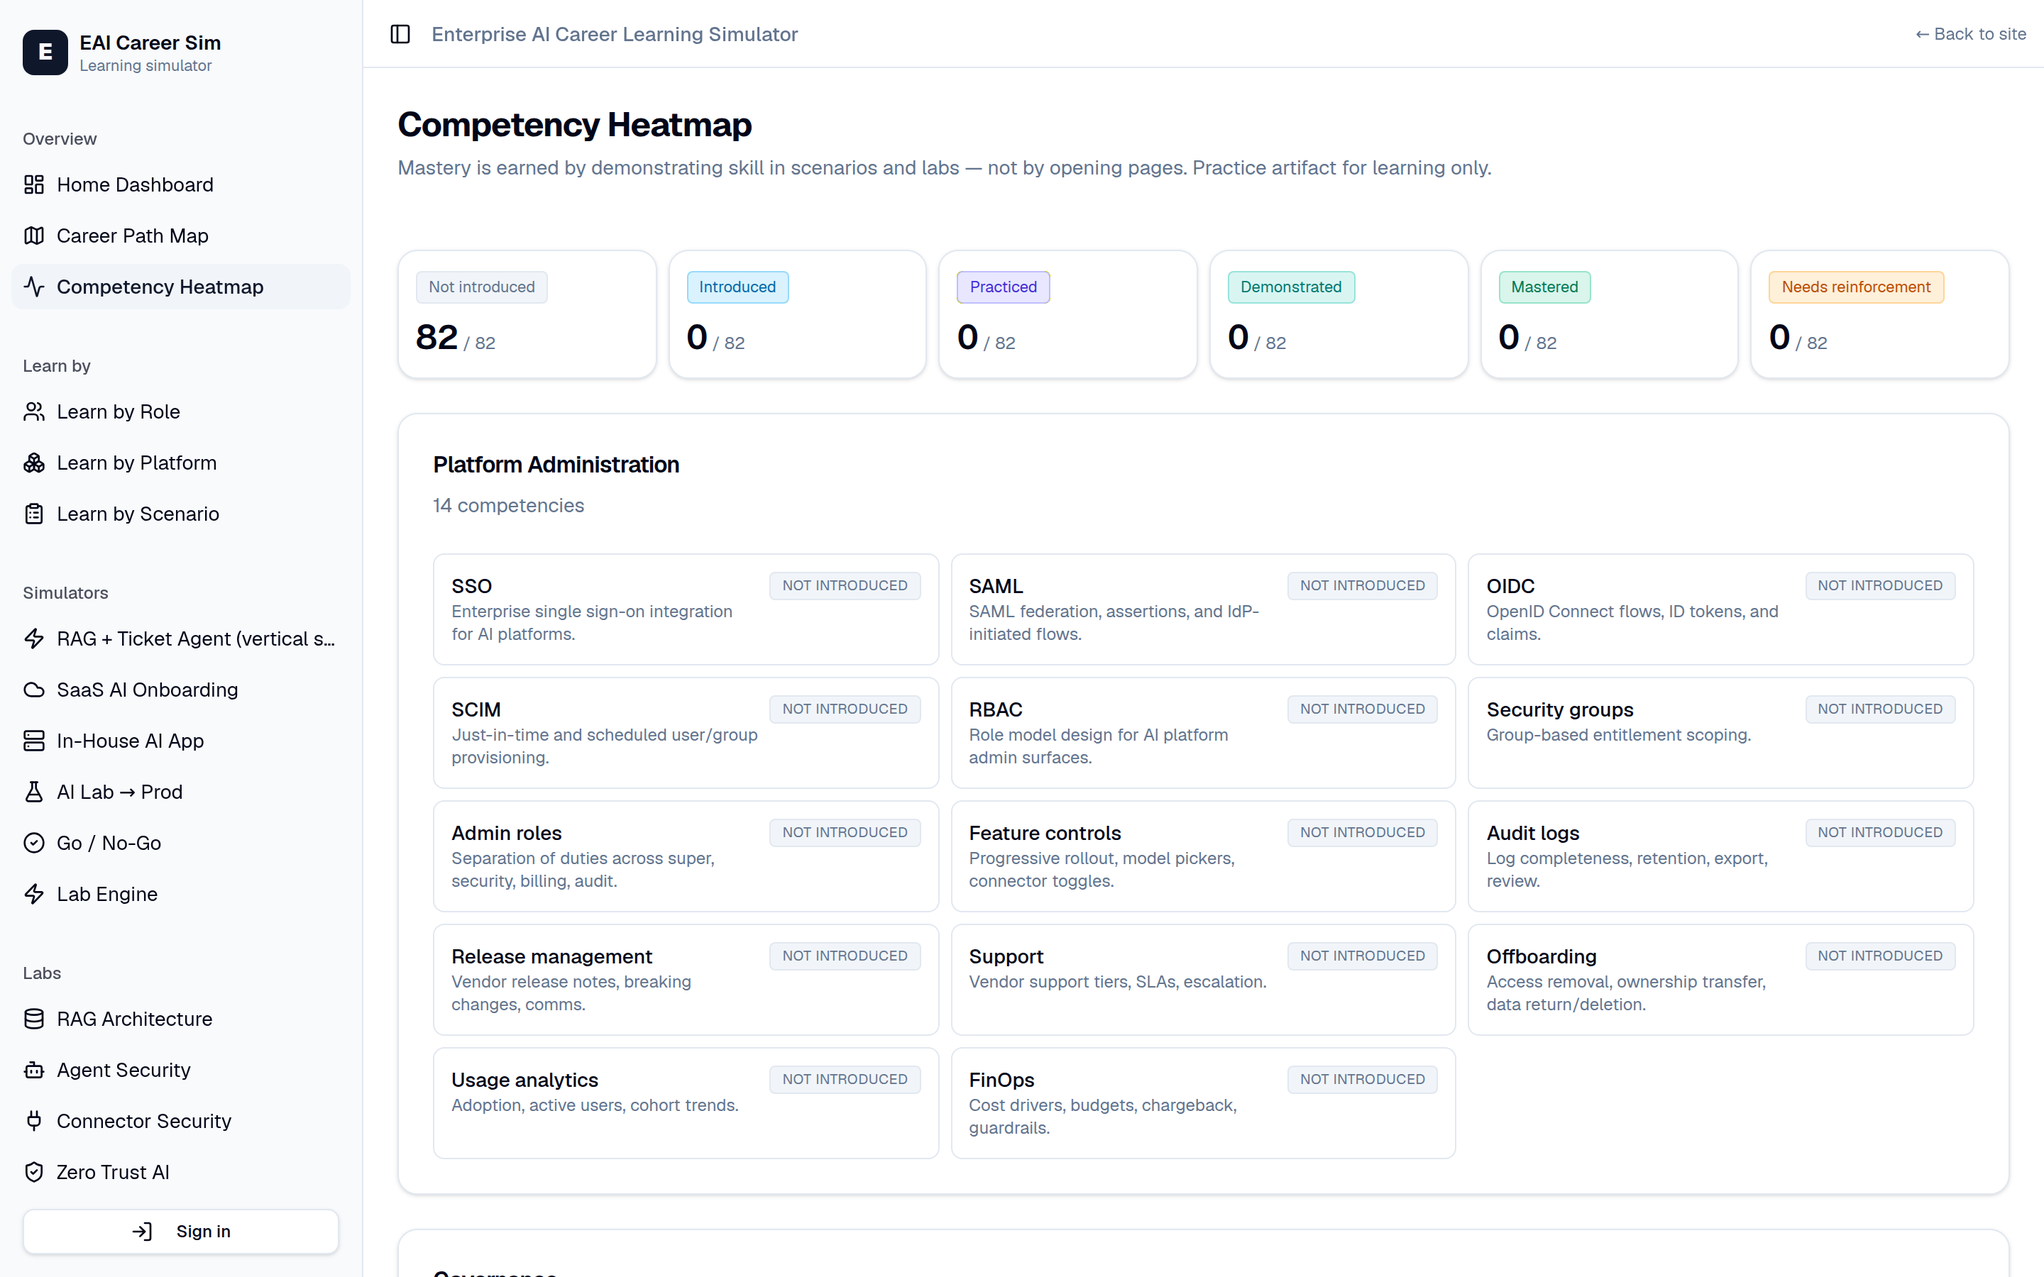
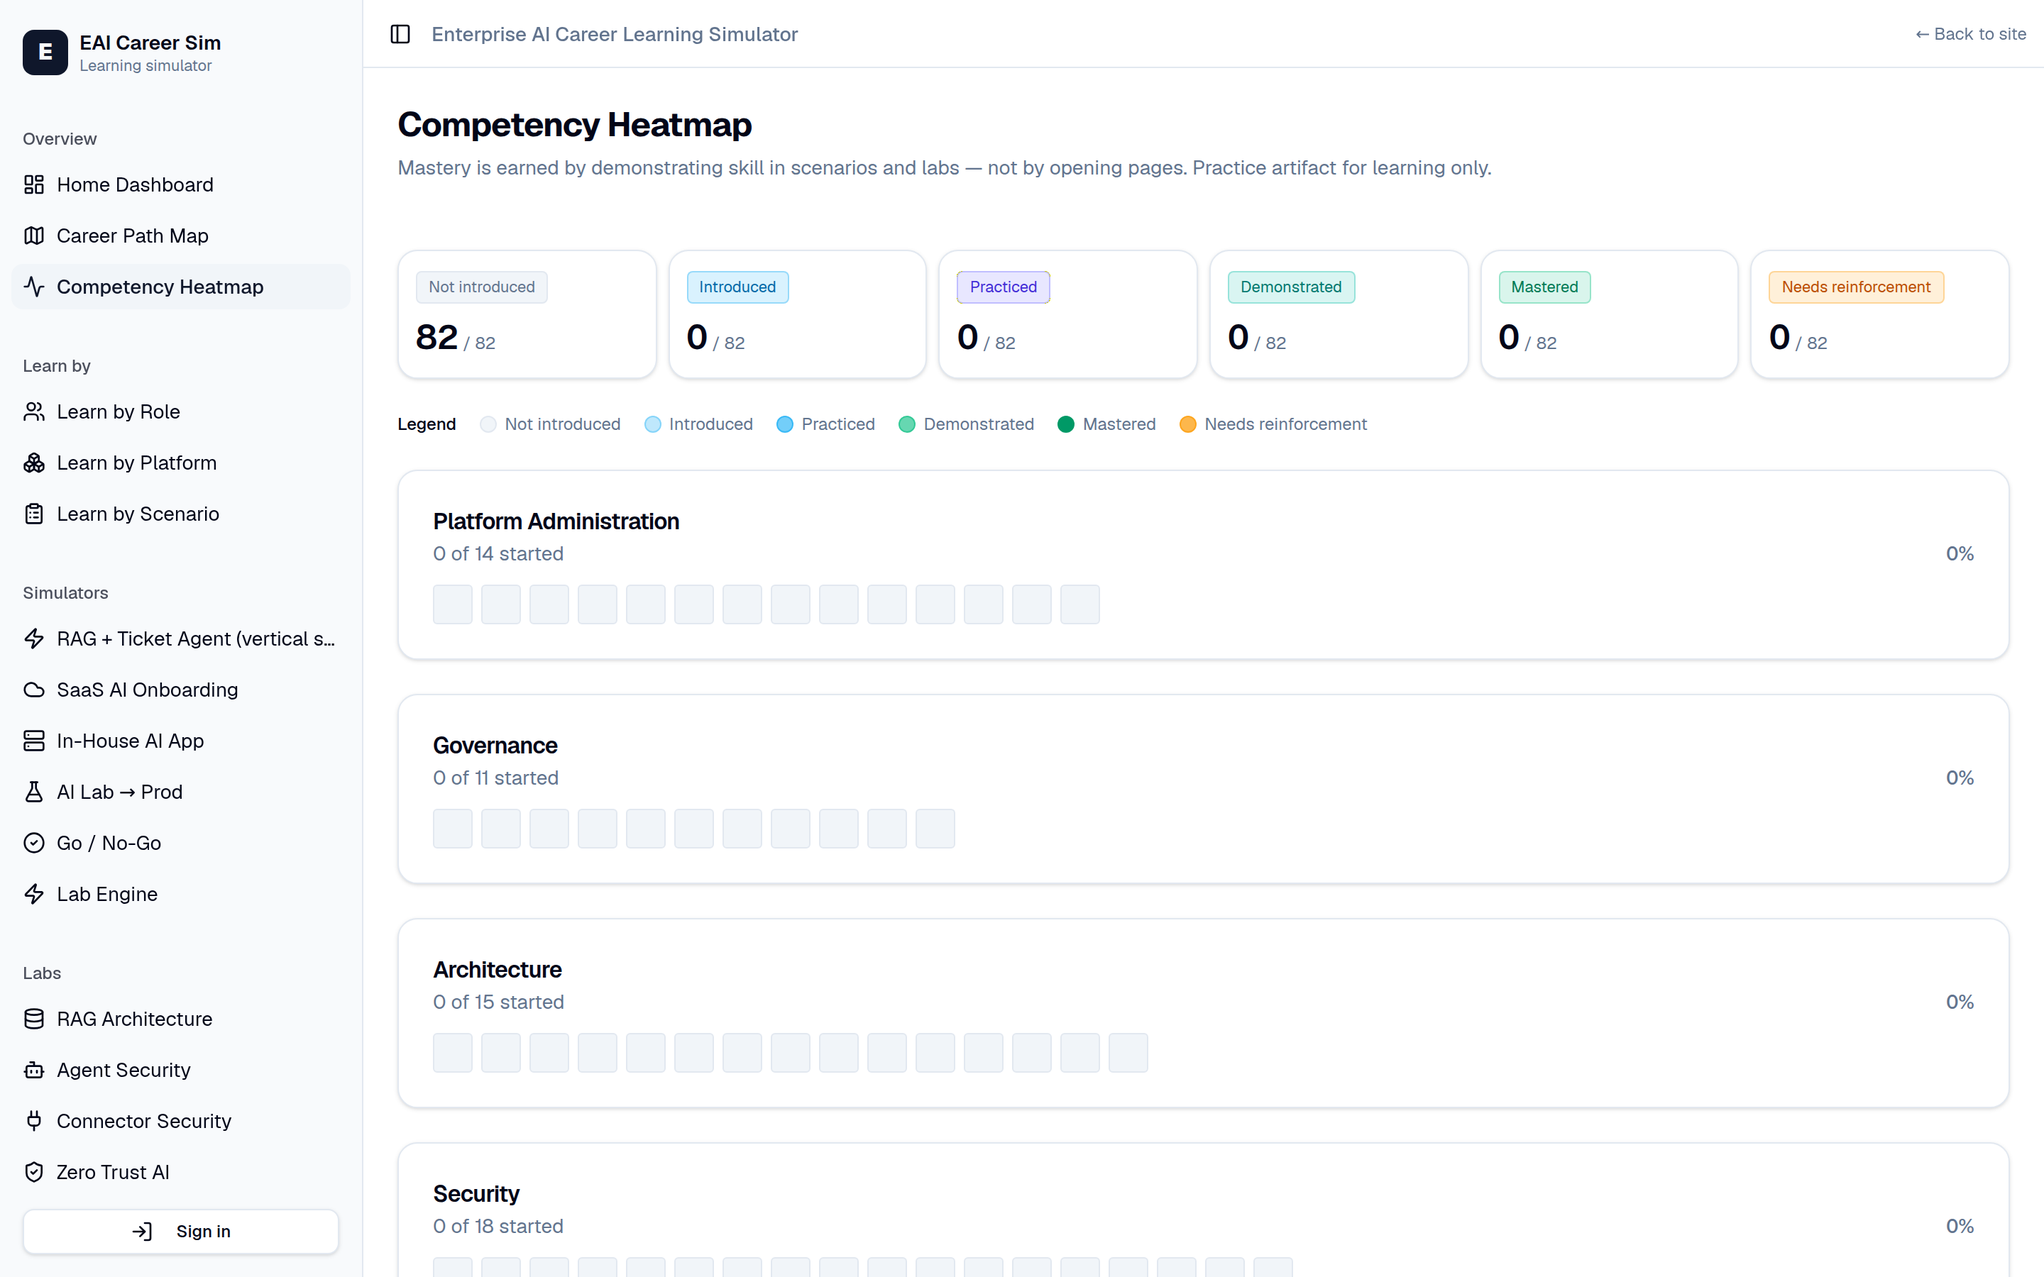
Rebuild the competency heatmap, sign-in, and portal chrome
The competency page was called a heatmap but had no heat: 82 identical
white cards each with a grey pill, no colour encoding, and 9,184px tall
on mobile. It is now an actual heat grid — dense cells on a single ramp
from untouched to mastered, with reinforcement breaking the ramp in amber
so a decayed skill stands out instead of reading as mid-progress. Each
category shows how far through it you are. The page went from 9,184px to
1,493px, so the whole picture is readable at a glance, which was the
entire point of the feature.

Sign-in was an unbranded card floating at the top of an empty white page,
with a title naming a different product. It is now a split screen: form
and wordmark on the left, a dark brand panel on the right carrying a line
from the simulation and the numbers behind it. It also now says plainly
that no account is needed, since the portal is open.

Portal chrome: the sidebar left roughly 600px of white void below itself
on any page that scrolled past the viewport; content padding stepped down
on mobile, where 24px was eating usable width.

Disabled buttons rendered as a faded near-black primary — a solid mid-grey
fill that reads as an active secondary button rather than a disabled one.
They now use the muted surface.

Verified: build, tsc, 21 tests, lint clean, 10/10 UI checks passing with
zero console errors, and 82 heat cells confirmed rendering.

Claude-Session: https://claude.ai/code/session_017nELc5DecWVwRruxi9ZJTT

diff --git a/src/routes/auth.tsx b/src/routes/auth.tsx
@@ -1,9 +1,10 @@
-import { createFileRoute, useNavigate, useSearch } from "@tanstack/react-router";
+import { Link, createFileRoute, useNavigate, useSearch } from "@tanstack/react-router";
 import { useEffect, useState } from "react";
 import { z } from "zod";
 import { supabase } from "@/integrations/supabase/client";
 import { lovable } from "@/integrations/lovable/index";
 import { useSession } from "@/lib/session";
+import { Wordmark } from "@/components/site/Logo";
 import { Button } from "@/components/ui/button";
 import { Card, CardContent, CardDescription, CardHeader, CardTitle } from "@/components/ui/card";
 import { Input } from "@/components/ui/input";
@@ -17,7 +18,7 @@ export const Route = createFileRoute("/auth")({
   validateSearch: (s) => searchSchema.parse(s),
   head: () => ({
     meta: [
-      { title: "Sign in — AI Assurance & Learning Platform" },
+      { title: "Sign in — EAI Career Sim" },
       {
         name: "description",
         content: "Sign in to persist scenario runs, evidence, and review-board transcripts.",
@@ -85,87 +86,139 @@ function AuthPage() {
   }
 
   return (
-    <div className="mx-auto grid min-h-[70vh] max-w-md place-items-center">
-      <Card className="w-full">
-        <CardHeader>
-          <CardTitle>Sign in to EAI Career Sim</CardTitle>
-          <CardDescription>
-            Runs, evidence, decisions and audit events persist to your account. Practice only — do
-            not enter real client data or production secrets.
-          </CardDescription>
-        </CardHeader>
-        <CardContent className="space-y-4">
-          <Button variant="outline" className="w-full" onClick={google}>
-            Continue with Google
-          </Button>
-          <div className="relative">
-            <div className="absolute inset-0 flex items-center">
-              <span className="w-full border-t" />
-            </div>
-            <div className="relative flex justify-center text-xs uppercase">
-              <span className="bg-background px-2 text-muted-foreground">or</span>
-            </div>
-          </div>
-          <Tabs defaultValue="signin">
-            <TabsList className="grid w-full grid-cols-2">
-              <TabsTrigger value="signin">Sign in</TabsTrigger>
-              <TabsTrigger value="signup">Create account</TabsTrigger>
-            </TabsList>
-            <TabsContent value="signin" className="space-y-3">
-              <div className="space-y-1">
-                <Label>Email</Label>
-                <Input type="email" value={email} onChange={(e) => setEmail(e.target.value)} />
-              </div>
-              <div className="space-y-1">
-                <Label>Password</Label>
-                <Input
-                  type="password"
-                  value={password}
-                  onChange={(e) => setPassword(e.target.value)}
-                />
-              </div>
-              <Button className="w-full" onClick={signIn} disabled={busy || !email || !password}>
-                Sign in
+    // Split screen: the form was previously an unbranded card floating at the
+    // top of an empty white page, with no logo and no indication of what you
+    // were signing in to.
+    <div className="grid min-h-svh lg:grid-cols-2">
+      <div className="flex flex-col justify-center px-6 py-12 sm:px-12">
+        <Link to="/" className="mb-8 inline-flex items-center gap-2 self-start">
+          <Wordmark />
+        </Link>
+        <div className="w-full max-w-md">
+          <Card className="w-full shadow-card">
+            <CardHeader>
+              <CardTitle>Sign in to EAI Career Sim</CardTitle>
+              <CardDescription>
+                Runs, evidence, decisions and audit events persist to your account. Practice only —
+                do not enter real client data or production secrets.
+              </CardDescription>
+            </CardHeader>
+            <CardContent className="space-y-4">
+              <Button variant="outline" className="w-full" onClick={google}>
+                Continue with Google
               </Button>
-            </TabsContent>
-            <TabsContent value="signup" className="space-y-3">
-              <div className="space-y-1">
-                <Label>Display name</Label>
-                <Input
-                  value={displayName}
-                  onChange={(e) => setDisplayName(e.target.value)}
-                  placeholder="Optional"
-                />
+              <div className="relative">
+                <div className="absolute inset-0 flex items-center">
+                  <span className="w-full border-t" />
+                </div>
+                <div className="relative flex justify-center text-xs uppercase">
+                  <span className="bg-background px-2 text-muted-foreground">or</span>
+                </div>
               </div>
-              <div className="space-y-1">
-                <Label>Email</Label>
-                <Input type="email" value={email} onChange={(e) => setEmail(e.target.value)} />
+              <Tabs defaultValue="signin">
+                <TabsList className="grid w-full grid-cols-2">
+                  <TabsTrigger value="signin">Sign in</TabsTrigger>
+                  <TabsTrigger value="signup">Create account</TabsTrigger>
+                </TabsList>
+                <TabsContent value="signin" className="space-y-3">
+                  <div className="space-y-1">
+                    <Label>Email</Label>
+                    <Input type="email" value={email} onChange={(e) => setEmail(e.target.value)} />
+                  </div>
+                  <div className="space-y-1">
+                    <Label>Password</Label>
+                    <Input
+                      type="password"
+                      value={password}
+                      onChange={(e) => setPassword(e.target.value)}
+                    />
+                  </div>
+                  <Button
+                    className="w-full"
+                    onClick={signIn}
+                    disabled={busy || !email || !password}
+                  >
+                    Sign in
+                  </Button>
+                </TabsContent>
+                <TabsContent value="signup" className="space-y-3">
+                  <div className="space-y-1">
+                    <Label>Display name</Label>
+                    <Input
+                      value={displayName}
+                      onChange={(e) => setDisplayName(e.target.value)}
+                      placeholder="Optional"
+                    />
+                  </div>
+                  <div className="space-y-1">
+                    <Label>Email</Label>
+                    <Input type="email" value={email} onChange={(e) => setEmail(e.target.value)} />
+                  </div>
+                  <div className="space-y-1">
+                    <Label>Password</Label>
+                    <Input
+                      type="password"
+                      value={password}
+                      onChange={(e) => setPassword(e.target.value)}
+                      minLength={8}
+                    />
+                  </div>
+                  <Button
+                    className="w-full"
+                    onClick={signUp}
+                    disabled={busy || !email || password.length < 8}
+                  >
+                    Create account
+                  </Button>
+                </TabsContent>
+              </Tabs>
+              {err && (
+                <Alert>
+                  <AlertDescription>{err}</AlertDescription>
+                </Alert>
+              )}
+            </CardContent>
+          </Card>
+          <p className="mt-6 text-sm text-muted-foreground">
+            You do not need an account to learn.{" "}
+            <Link to="/app" className="font-medium text-brand hover:underline">
+              Continue without signing in
+            </Link>
+            .
+          </p>
+        </div>
+      </div>
+
+      <aside className="surface-dark relative hidden overflow-hidden lg:block">
+        <div className="surface-dark-grid absolute inset-0" aria-hidden />
+        <div className="brand-radial absolute inset-0" aria-hidden />
+        <div className="relative flex h-full flex-col justify-center px-12 py-16">
+          <blockquote className="max-w-md">
+            <p className="text-2xl leading-snug font-medium text-balance text-white">
+              “Source trust is not content trust. Retrieved text is untrusted input.”
+            </p>
+            <footer className="mt-4 text-sm text-white/55">
+              From the RAG and ticket-agent simulation — one of the lessons the engine will make you
+              learn the hard way.
+            </footer>
+          </blockquote>
+          <dl className="mt-12 grid grid-cols-3 gap-6 border-t border-white/10 pt-8">
+            {[
+              ["16", "graded stages"],
+              ["8", "rubric dimensions"],
+              ["82", "competencies tracked"],
+            ].map(([v, l]) => (
+              <div key={l}>
+                <dt className="sr-only">{l}</dt>
+                <dd>
+                  <div className="text-2xl font-semibold tabular-nums text-white">{v}</div>
+                  <div className="mt-1 text-xs text-white/50">{l}</div>
+                </dd>
               </div>
-              <div className="space-y-1">
-                <Label>Password</Label>
-                <Input
-                  type="password"
-                  value={password}
-                  onChange={(e) => setPassword(e.target.value)}
-                  minLength={8}
-                />
-              </div>
-              <Button
-                className="w-full"
-                onClick={signUp}
-                disabled={busy || !email || password.length < 8}
-              >
-                Create account
-              </Button>
-            </TabsContent>
-          </Tabs>
-          {err && (
-            <Alert>
-              <AlertDescription>{err}</AlertDescription>
-            </Alert>
-          )}
-        </CardContent>
-      </Card>
+            ))}
+          </dl>
+        </div>
+      </aside>
     </div>
   );
 }

diff --git a/src/routes/app.competencies.tsx b/src/routes/app.competencies.tsx
@@ -6,6 +6,20 @@ import { useProgress } from "@/lib/progress";
 import { STATUS_COLOR, STATUS_LABEL, emptyRecord } from "@/lib/competency";
 import type { CompetencyStatus } from "@/content/types";
 
+/**
+ * Cell colours for the heat grid — a single ramp from "untouched" to
+ * "mastered", with reinforcement deliberately breaking the ramp in amber so a
+ * decayed skill stands out rather than reading as mid-progress.
+ */
+const HEAT: Record<CompetencyStatus, string> = {
+  not_introduced: "border-border bg-muted",
+  introduced: "border-sky-500/30 bg-sky-500/25",
+  practiced: "border-sky-500/50 bg-sky-500/55",
+  demonstrated: "border-emerald-500/50 bg-emerald-500/60",
+  mastered: "border-emerald-600/60 bg-emerald-600",
+  needs_reinforcement: "border-amber-500/60 bg-amber-500/70",
+};
+
 export const Route = createFileRoute("/app/competencies")({
   head: () => ({
     meta: [
@@ -59,39 +73,57 @@ function CompetenciesPage() {
         ))}
       </div>
 
+      {/* An actual heat grid. This page is called a heatmap but rendered 82
+          identical white cards with a grey pill — no colour encoding at all,
+          and 9,000px tall on mobile. Dense cells make the whole picture
+          readable at a glance, which is the entire point. */}
+      <div className="flex flex-wrap items-center gap-x-4 gap-y-2 text-xs text-muted-foreground">
+        <span className="font-medium text-foreground">Legend</span>
+        {(Object.keys(counts) as CompetencyStatus[]).map((s) => (
+          <span key={s} className="inline-flex items-center gap-1.5">
+            <span className={`size-3 rounded-sm border ${HEAT[s]}`} />
+            {STATUS_LABEL[s]}
+          </span>
+        ))}
+      </div>
+
       {competencyCategories.map((cat) => {
         const items = competencies.filter((c) => c.category === cat.id);
+        const reached = items.filter(
+          (c) => (p.competencies[c.id]?.status ?? "not_introduced") !== "not_introduced",
+        ).length;
         return (
           <Card key={cat.id}>
-            <CardHeader>
-              <CardTitle className="text-base">{cat.label}</CardTitle>
-              <CardDescription>{items.length} competencies</CardDescription>
+            <CardHeader className="pb-3">
+              <div className="flex items-end justify-between gap-4">
+                <div>
+                  <CardTitle className="text-base">{cat.label}</CardTitle>
+                  <CardDescription>
+                    {reached} of {items.length} started
+                  </CardDescription>
+                </div>
+                <div className="text-sm font-medium tabular-nums text-muted-foreground">
+                  {Math.round((reached / items.length) * 100)}%
+                </div>
+              </div>
             </CardHeader>
             <CardContent>
-              <ul className="grid gap-2 sm:grid-cols-2 lg:grid-cols-3">
+              <ul className="grid grid-cols-[repeat(auto-fill,1.75rem)] gap-1.5">
                 {items.map((comp) => {
                   const rec = p.competencies[comp.id] ?? emptyRecord();
                   return (
-                    <li
-                      key={comp.id}
-                      className="flex items-start justify-between gap-2 rounded-md border p-3 text-sm"
-                    >
-                      <div>
-                        <div className="font-medium">{comp.name}</div>
-                        <div className="text-xs text-muted-foreground leading-snug">
-                          {comp.description}
-                        </div>
-                      </div>
+                    <li key={comp.id}>
                       <span
-                        className={`shrink-0 rounded border px-2 py-0.5 text-[10px] uppercase tracking-wide ${STATUS_COLOR[rec.status]}`}
-                        title={
+                        tabIndex={0}
+                        role="img"
+                        aria-label={`${comp.name}: ${STATUS_LABEL[rec.status]}`}
+                        className={`block size-7 rounded-[3px] border transition-transform hover:scale-110 focus:scale-110 focus:outline-none focus-visible:ring-2 focus-visible:ring-ring ${HEAT[rec.status]}`}
+                        title={`${comp.name} — ${STATUS_LABEL[rec.status]}\n${comp.description}${
                           rec.lastPracticedTs
-                            ? `Last practiced ${new Date(rec.lastPracticedTs).toLocaleDateString()}`
-                            : "Not yet practiced"
-                        }
-                      >
-                        {STATUS_LABEL[rec.status]}
-                      </span>
+                            ? `\nLast practised ${new Date(rec.lastPracticedTs).toLocaleDateString()}`
+                            : ""
+                        }`}
+                      />
                     </li>
                   );
                 })}

diff --git a/src/components/ui/button.tsx b/src/components/ui/button.tsx
@@ -5,7 +5,7 @@ import { cva, type VariantProps } from "class-variance-authority";
 import { cn } from "@/lib/utils";
 
 const buttonVariants = cva(
-  "inline-flex items-center justify-center gap-2 whitespace-nowrap rounded-md text-sm font-medium cursor-pointer transition-colors focus-visible:outline-none focus-visible:ring-1 focus-visible:ring-ring disabled:pointer-events-none disabled:opacity-50 disabled:cursor-not-allowed [&_svg]:pointer-events-none [&_svg]:size-4 [&_svg]:shrink-0",
+  "inline-flex items-center justify-center gap-2 whitespace-nowrap rounded-md text-sm font-medium cursor-pointer transition-colors focus-visible:outline-none focus-visible:ring-1 focus-visible:ring-ring disabled:pointer-events-none disabled:border disabled:bg-muted disabled:text-muted-foreground disabled:shadow-none disabled:cursor-not-allowed [&_svg]:pointer-events-none [&_svg]:size-4 [&_svg]:shrink-0",
   {
     variants: {
       variant: {

diff --git a/src/routes/app.tsx b/src/routes/app.tsx
@@ -32,7 +32,7 @@ function PortalLayout() {
   useProgressSync();
   return (
     <SidebarProvider>
-      <div className="flex min-h-screen w-full bg-background">
+      <div className="flex min-h-svh w-full bg-background">
         <AppSidebar />
         <div className="flex flex-1 flex-col">
           <header className="sticky top-0 z-30 flex h-12 items-center gap-2 border-b bg-background/95 px-3 backdrop-blur">
@@ -49,7 +49,7 @@ function PortalLayout() {
               ← Back to site
             </Link>
           </header>
-          <main className="flex-1 p-6">
+          <main className="flex-1 p-4 md:p-6">
             <Outlet />
           </main>
         </div>
